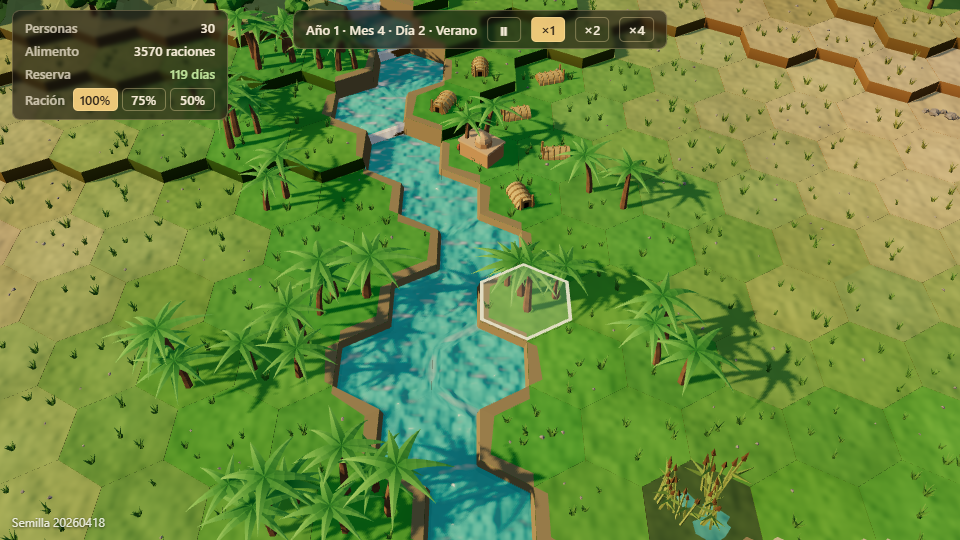
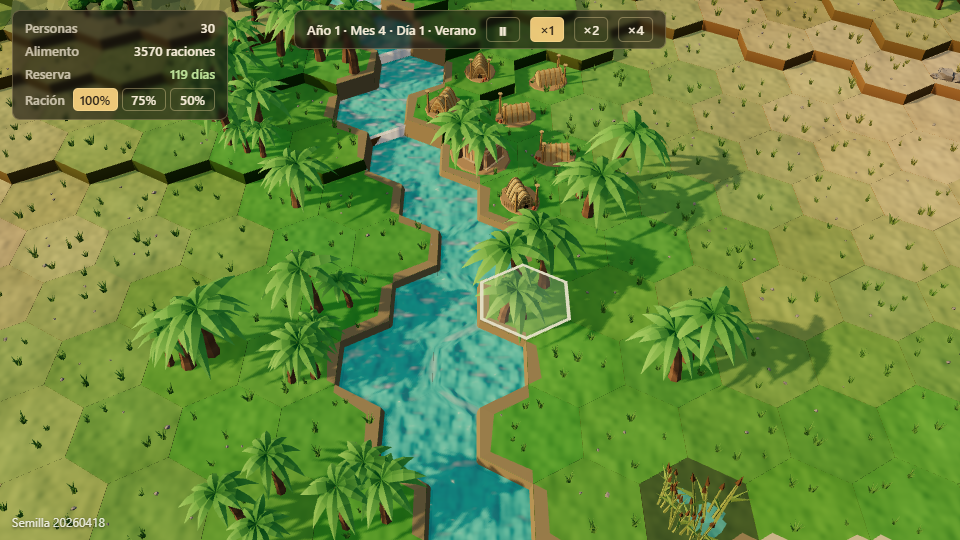
feat(sedimento): F01e rediseño de palmeras, árboles y coníferas

diff --git a/games/sedimento/src/render/vegetacion.ts b/games/sedimento/src/render/vegetacion.ts
@@ -15,12 +15,12 @@ const TRONCO = '#7a583a';
 const TRONCO_OSCURO = '#5f4429';
 const TRONCO_PALMA = '#94714b';
 const ANILLO_PALMA = '#7b5c3b';
-const FRONDA_BASE = '#3e8c34';
+const FRONDA_BASE = '#3a8030';
 const FRONDA_PUNTA = '#86d15a';
-const COCO = '#6b4a2b';
-const HOJA_CONIFERA_BAJA = '#245a3d';
-const HOJA_CONIFERA_ALTA = '#3f8a57';
-const HOJA_ARBOL = '#5da846';
+const DATIL = '#e08a2c';
+const HOJA_CONIFERA_BAJA = '#1d4a45';
+const HOJA_CONIFERA_ALTA = '#3d7f68';
+const HOJA_ARBOL = '#6aba4c';
 const ROCA_BAJA = '#6c645a';
 const ROCA_ALTA = '#aaa191';
 const CANA = '#a3b250';
@@ -40,6 +40,10 @@ const RADIO_PEQUENO = 0.74;
 const INTERIOR_MINIMO = 0.7;
 /** Escalas de las especies que no usan escalaMin/escalaMax de tuning. */
 const ESCALA_ROCA: [number, number] = [0.8, 1.6];
+/** Las palmeras varían mucho de tamaño dentro de un mismo palmeral. */
+const ESCALA_PALMA: [number, number] = [0.85, 1.75];
+/** Inclinación máxima (rad) de un árbol sobre la vertical. */
+const INCLINACION_MAXIMA = 0.09;
 const ESCALA_GUIJARRO: [number, number] = [0.5, 1.1];
 const ESCALA_MATA: [number, number] = [0.8, 1.5];
 const ESCALA_DUNA: [number, number] = [0.6, 1.3];
@@ -97,28 +101,44 @@ function matizar(geo: THREE.BufferGeometry, rng: Rng, fuerza: number): void {
   for (let i = 0; i < col.count; i++) col.setXYZ(i, col.getX(i) * f, col.getY(i) * g, col.getZ(i) * f);
 }
 
+/** Aclara hacia arriba (y oscurece abajo): factor `abajo` en yMin y `arriba` en yMax. */
+function aclararArriba(geo: THREE.BufferGeometry, yMin: number, yMax: number, abajo: number, arriba: number): void {
+  const pos = geo.attributes.position;
+  const col = geo.attributes.color;
+  for (let i = 0; i < pos.count; i++) {
+    const t = Math.min(1, Math.max(0, (pos.getY(i) - yMin) / Math.max(1e-6, yMax - yMin)));
+    const f = abajo + (arriba - abajo) * t;
+    col.setXYZ(i, col.getX(i) * f, col.getY(i) * f * 0.99, col.getZ(i) * f * 0.92);
+  }
+}
+
 // ---------- Especies (cada una tiene varias variantes) ----------
 
 function crearArbol(rng: Rng): THREE.BufferGeometry {
   const partes: THREE.BufferGeometry[] = [];
-  const altoTronco = 0.3 + rng() * 0.08;
-  const tronco = new THREE.CylinderGeometry(0.022, 0.058, altoTronco, 6, 2).translate(0, altoTronco / 2, 0);
-  irregular(tronco, rng, 0.012);
+  const altoTronco = 0.32 + rng() * 0.08;
+  const tronco = new THREE.CylinderGeometry(0.026, 0.068, altoTronco, 6, 3).translate(0, altoTronco / 2, 0);
+  irregular(tronco, rng, 0.014);
   partes.push(pieza(tronco, TRONCO));
-  // Una rama que sale del tronco hacia un lado.
-  const rama = new THREE.CylinderGeometry(0.012, 0.022, 0.16, 5).translate(0, 0.08, 0).rotateZ(0.8).rotateY(rng() * Math.PI * 2).translate(0, altoTronco * 0.6, 0);
-  partes.push(pieza(rama, TRONCO_OSCURO));
-  const manchas = 4 + Math.floor(rng() * 2);
-  for (let k = 0; k < manchas; k++) {
-    const radio = k === 0 ? 0.2 + rng() * 0.04 : 0.11 + rng() * 0.07;
+  // Dos ramas visibles que salen hacia lados distintos y sostienen masas de copa.
+  const giroRama = rng() * Math.PI * 2;
+  for (let r = 0; r < 2; r++) {
+    const a = giroRama + r * (2.2 + rng() * 0.8);
+    const rama = new THREE.CylinderGeometry(0.012, 0.026, 0.2, 5).translate(0, 0.1, 0).rotateZ(0.75 + rng() * 0.2).rotateY(a).translate(0, altoTronco * (0.55 + 0.2 * r), 0);
+    partes.push(pieza(rama, TRONCO_OSCURO));
+  }
+  const masas = 4 + Math.floor(rng() * 2);
+  for (let k = 0; k < masas; k++) {
+    const radio = k === 0 ? 0.21 + rng() * 0.04 : 0.12 + rng() * 0.08;
     const ang = rng() * Math.PI * 2;
-    const dist = k === 0 ? 0 : 0.1 + rng() * 0.08;
-    const y = altoTronco + 0.05 + (k === 0 ? 0.08 : rng() * 0.14 - 0.04);
-    const copa = new THREE.IcosahedronGeometry(radio, 1).scale(1, 0.85, 1).translate(Math.cos(ang) * dist, y, Math.sin(ang) * dist);
-    irregular(copa, rng, radio * 0.28);
+    const dist = k === 0 ? 0 : 0.11 + rng() * 0.09;
+    const y = altoTronco + 0.05 + (k === 0 ? 0.1 : rng() * 0.16 - 0.04);
+    const copa = new THREE.IcosahedronGeometry(radio, 1).scale(1, 0.82, 1).translate(Math.cos(ang) * dist, y, Math.sin(ang) * dist);
+    irregular(copa, rng, radio * 0.32);
     const p = pieza(copa, HOJA_ARBOL);
-    sombraAbajo(p, altoTronco - 0.02, altoTronco + 0.4, 0.62);
-    matizar(p, rng, 0.1);
+    // Abajo, en sombra; arriba, donde da el sol, más claro y amarillento.
+    aclararArriba(p, altoTronco - 0.02, altoTronco + 0.42, 0.55, 1.16);
+    matizar(p, rng, 0.13);
     partes.push(p);
   }
   return fusionar(partes);
@@ -126,24 +146,30 @@ function crearArbol(rng: Rng): THREE.BufferGeometry {
 
 function crearConifera(rng: Rng): THREE.BufferGeometry {
   const partes: THREE.BufferGeometry[] = [];
-  const pisos = 4 + Math.floor(rng() * 2);
-  const alto = 0.78 + rng() * 0.12;
-  partes.push(pieza(new THREE.CylinderGeometry(0.018, 0.045, 0.2, 6).translate(0, 0.1, 0), TRONCO));
+  const pisos = 3 + Math.floor(rng() * 2);
+  const alto = 0.8 + rng() * 0.14;
+  partes.push(pieza(new THREE.CylinderGeometry(0.02, 0.05, 0.24, 6).translate(0, 0.12, 0), TRONCO));
+  const claro = new THREE.Color(HOJA_CONIFERA_ALTA);
+  const oscuro = new THREE.Color(HOJA_CONIFERA_BAJA);
+  const c = new THREE.Color();
   for (let k = 0; k < pisos; k++) {
     const t = k / (pisos - 1);
-    const radio = 0.3 - 0.2 * t + rng() * 0.02;
-    const altoPiso = 0.2 + (1 - t) * 0.06;
-    const y = 0.12 + t * (alto - 0.38);
-    const cono = new THREE.ConeGeometry(radio, altoPiso, 7, 1).rotateY(rng() * Math.PI).translate((rng() - 0.5) * 0.02, y + altoPiso / 2, (rng() - 0.5) * 0.02);
-    irregular(cono, rng, radio * 0.18);
+    const radio = 0.33 - 0.17 * t + rng() * 0.025;
+    const altoPiso = 0.26 + (1 - t) * 0.06;
+    const y = 0.17 + t * (alto - 0.5);
+    // Dos anillos: el borde inferior queda caído y desigual, como las ramas de un abeto.
+    const cono = new THREE.ConeGeometry(radio, altoPiso, 8, 2, true).rotateY(rng() * Math.PI);
+    const pc = cono.attributes.position;
+    for (let i = 0; i < pc.count; i++) {
+      if (pc.getY(i) < -altoPiso * 0.4) pc.setY(i, pc.getY(i) - 0.035);
+    }
+    cono.translate((rng() - 0.5) * 0.02, y + altoPiso / 2, (rng() - 0.5) * 0.02);
+    irregular(cono, rng, radio * 0.2);
     const p = pieza(cono, HOJA_CONIFERA_BAJA);
     const col = p.attributes.color;
-    const claro = new THREE.Color(HOJA_CONIFERA_ALTA);
-    const oscuro = new THREE.Color(HOJA_CONIFERA_BAJA);
-    const c = new THREE.Color();
     for (let i = 0; i < col.count; i++) {
       const u = Math.min(1, Math.max(0, (p.attributes.position.getY(i) - y) / altoPiso));
-      c.lerpColors(oscuro, claro, u * 0.9 + t * 0.2);
+      c.lerpColors(oscuro, claro, u * 0.85 + t * 0.25);
       col.setXYZ(i, c.r, c.g, c.b);
     }
     partes.push(p);
@@ -151,17 +177,45 @@ function crearConifera(rng: Rng): THREE.BufferGeometry {
   return fusionar(partes);
 }
 
+/**
+ * Hoja de palmera: tira con forma de V (nervio central elevado) que sube un poco y cae en arco, más
+ * ancha hacia el primer tercio y afilada en la punta. Va en tramos para curvarse de verdad.
+ */
+function crearFronda(largo: number, ancho: number, caida: number, subida: number): THREE.BufferGeometry {
+  const tramos = 4;
+  const pos: number[] = [];
+  const idx: number[] = [];
+  for (let k = 0; k <= tramos; k++) {
+    const t = k / tramos;
+    const x = largo * t;
+    const y = largo * (subida * t - caida * t * t);
+    const w = ancho * Math.sin(Math.PI * Math.min(1, 0.14 + 0.86 * t));
+    pos.push(x, y - 0.05 * w, -w, x, y + 0.45 * w, 0, x, y - 0.05 * w, w);
+  }
+  for (let k = 0; k < tramos; k++) {
+    const a = k * 3;
+    const b = (k + 1) * 3;
+    idx.push(a, a + 1, b, a + 1, b + 1, b, a + 1, a + 2, b + 1, a + 2, b + 2, b + 1);
+  }
+  const g = new THREE.BufferGeometry();
+  g.setAttribute('position', new THREE.Float32BufferAttribute(pos, 3));
+  g.setIndex(idx);
+  g.computeVertexNormals();
+  return g;
+}
+
 function crearPalma(rng: Rng): THREE.BufferGeometry {
   const partes: THREE.BufferGeometry[] = [];
-  const altura = 0.64 + rng() * 0.14;
-  const curva = 0.05 + rng() * 0.1;
-  const tramos = 8;
-  // Tronco con anillos: un cilindro dividido en tramos que se curva y se estrecha hacia arriba.
-  const tronco = new THREE.CylinderGeometry(0.03, 0.06, altura, 6, tramos, true).translate(0, altura / 2, 0);
+  const altura = 0.7 + rng() * 0.2;
+  const curva = 0.06 + rng() * 0.12;
+  const tramos = 7;
+  // Tronco curvo y segmentado: anillos alternos algo más gruesos y más oscuros, que se estrecha hacia arriba.
+  const tronco = new THREE.CylinderGeometry(0.036, 0.074, altura, 7, tramos, true).translate(0, altura / 2, 0);
   const pos = tronco.attributes.position;
   for (let i = 0; i < pos.count; i++) {
     const t = pos.getY(i) / altura;
-    pos.setX(i, pos.getX(i) - curva * t * t);
+    const anillo = Math.round(t * tramos) % 2 === 0 ? 1.12 : 1;
+    pos.setXYZ(i, pos.getX(i) * anillo - curva * t * t, pos.getY(i), pos.getZ(i) * anillo);
   }
   tronco.computeVertexNormals();
   const pt = pieza(tronco, TRONCO_PALMA);
@@ -170,27 +224,20 @@ function crearPalma(rng: Rng): THREE.BufferGeometry {
   const base = new THREE.Color(TRONCO_PALMA);
   const c = new THREE.Color();
   for (let i = 0; i < col.count; i++) {
-    const tramo = Math.floor((pt.attributes.position.getY(i) / altura) * tramos + 0.001);
-    c.copy(base).lerp(anillo, tramo % 2 === 0 ? 0.55 : 0);
+    const j = Math.round((pt.attributes.position.getY(i) / altura) * tramos);
+    c.copy(base).lerp(anillo, j % 2 === 0 ? 0.6 : 0);
     col.setXYZ(i, c.r, c.g, c.b);
   }
   partes.push(pt);
   const cimaX = -curva;
-  const frondas = 7 + Math.floor(rng() * 3);
+  const cimaY = altura * 0.99;
+  const frondas = 10 + Math.floor(rng() * 3);
   const clara = new THREE.Color(FRONDA_PUNTA);
   const oscura = new THREE.Color(FRONDA_BASE);
   for (let f = 0; f < frondas; f++) {
-    const largo = 0.5 + rng() * 0.14;
-    // Hoja: cono aplastado y alargado, curvado hacia abajo con la distancia al tronco.
-    const g = new THREE.ConeGeometry(0.085, largo, 3, 4, true).translate(0, largo / 2, 0).rotateZ(-Math.PI / 2);
-    const gp = g.attributes.position;
-    const caida = 0.5 + rng() * 0.8;
-    const subida = 0.25 + rng() * 0.35;
-    for (let i = 0; i < gp.count; i++) {
-      const t = gp.getX(i) / largo;
-      gp.setY(i, gp.getY(i) * 0.3 + (subida * t - caida * t * t) * largo * 0.5);
-    }
-    g.rotateY((f / frondas) * Math.PI * 2 + (rng() - 0.5) * 0.4).translate(cimaX, altura * 0.99, 0);
+    const largo = 0.46 + rng() * 0.16;
+    const g = crearFronda(largo, 0.07 + rng() * 0.025, 0.55 + rng() * 0.7, 0.35 + rng() * 0.3);
+    g.rotateY((f / frondas) * Math.PI * 2 + (rng() - 0.5) * 0.35).translate(cimaX, cimaY, 0);
     const p = pieza(g, FRONDA_BASE);
     const cp = p.attributes.color;
     for (let i = 0; i < cp.count; i++) {
@@ -200,9 +247,15 @@ function crearPalma(rng: Rng): THREE.BufferGeometry {
     }
     partes.push(p);
   }
-  for (let k = 0; k < 3; k++) {
-    const a = (k / 3) * Math.PI * 2;
-    partes.push(pieza(new THREE.IcosahedronGeometry(0.035, 0).translate(cimaX + Math.cos(a) * 0.045, altura * 0.95, Math.sin(a) * 0.045), COCO));
+  // Racimos de dátiles naranja colgando bajo la corona.
+  const racimos = 2 + Math.floor(rng() * 2);
+  for (let k = 0; k < racimos; k++) {
+    const a = rng() * Math.PI * 2;
+    for (let d = 0; d < 4; d++) {
+      const x = cimaX + Math.cos(a) * (0.05 + 0.012 * d);
+      const z = Math.sin(a) * (0.05 + 0.012 * d);
+      partes.push(pieza(new THREE.IcosahedronGeometry(0.024, 0).translate(x, cimaY - 0.04 - 0.028 * d, z), DATIL));
+    }
   }
   return fusionar(partes);
 }
@@ -308,6 +361,8 @@ interface Ejemplar {
   sy: number;
   sz: number;
   giro: number;
+  inclX: number;
+  inclZ: number;
   brillo: number;
 }
 
@@ -361,7 +416,7 @@ function colocar(mapa: Mapa, disp: Disposicion, cfg: ConfigRender, rng: Rng, sue
   const res: Ejemplar[] = [];
   const escalaArbol: [number, number] = [v.escalaMin, v.escalaMax];
   const escalas: Record<Especie, [number, number]> = {
-    palma: escalaArbol,
+    palma: ESCALA_PALMA,
     conifera: escalaArbol,
     arbol: escalaArbol,
     cana: escalaArbol,
@@ -401,6 +456,8 @@ function colocar(mapa: Mapa, disp: Disposicion, cfg: ConfigRender, rng: Rng, sue
           sy: e,
           sz: e,
           giro: rng() * Math.PI * 2,
+          inclX: (rng() - 0.5) * 2 * INCLINACION_MAXIMA,
+          inclZ: (rng() - 0.5) * 2 * INCLINACION_MAXIMA,
           brillo: 1 - VARIACION_BRILLO / 2 + rng() * VARIACION_BRILLO,
         });
       }
@@ -414,7 +471,7 @@ export function crearVegetacion(mapa: Mapa, disp: Disposicion, cfg: ConfigRender
   const rng = crearRng(derivarSemilla(mapa.semilla, 'render-veg'));
   const ejemplares = colocar(mapa, disp, cfg, rng, suelo);
 
-  const material = new THREE.MeshStandardMaterial({ vertexColors: true, flatShading: true, roughness: 0.9, metalness: 0 });
+  const material = new THREE.MeshStandardMaterial({ vertexColors: true, flatShading: true, roughness: 0.9, metalness: 0, side: THREE.DoubleSide });
   const geometrias: THREE.BufferGeometry[] = [];
   const mallas: THREE.InstancedMesh[] = [];
   const raiz = new THREE.Group();
@@ -423,7 +480,8 @@ export function crearVegetacion(mapa: Mapa, disp: Disposicion, cfg: ConfigRender
   const posicion = new THREE.Vector3();
   const escala = new THREE.Vector3();
   const giro = new THREE.Quaternion();
-  const ejeY = new THREE.Vector3(0, 1, 0);
+  const euler = new THREE.Euler();
+  const arbol = (e: Especie) => e === 'palma' || e === 'arbol' || e === 'conifera';
   const color = new THREE.Color();
   const tmp = new THREE.Color();
   const blanco = new THREE.Color(1, 1, 1);
@@ -464,7 +522,7 @@ export function crearVegetacion(mapa: Mapa, disp: Disposicion, cfg: ConfigRender
       lista.forEach((e, k) => {
         posicion.set(e.x, e.y, e.z);
         escala.set(e.sx, e.sy, e.sz);
-        giro.setFromAxisAngle(ejeY, e.giro);
+        giro.setFromEuler(euler.set(arbol(e.especie) ? e.inclX : 0, e.giro, arbol(e.especie) ? e.inclZ : 0, 'YXZ'));
         malla.setMatrixAt(k, matriz.compose(posicion, giro, escala));
         malla.setColorAt(k, colorDe(e));
       });

diff --git a/games/sedimento/src/render/escena.ts b/games/sedimento/src/render/escena.ts
@@ -73,6 +73,7 @@ export function crearEscena(contenedor: HTMLElement, cfg: ConfigRender, caja: TH
   c.near = radio * (DISTANCIA_SOL - 1);
   c.far = radio * (DISTANCIA_SOL + 1);
   // El sesgo evita el "acné" (rayas de autosombra) sin despegar la sombra de su objeto.
+  sol.shadow.intensity = cfg.luz.intensidadSombra;
   sol.shadow.bias = -0.0004;
   sol.shadow.normalBias = 0.04;
   escena.add(sol, sol.target);
